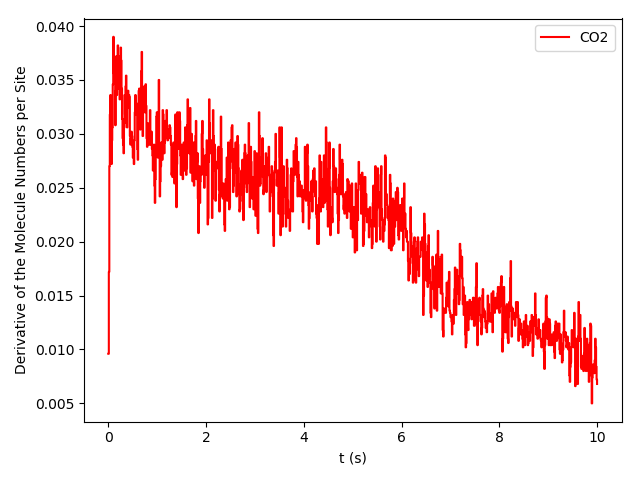
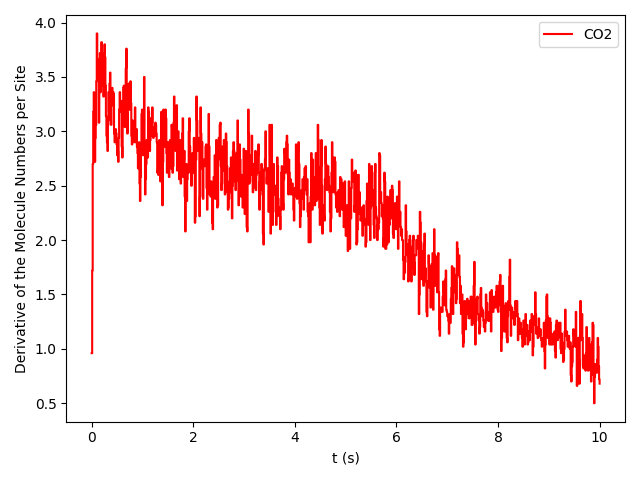
1) Now calculations using restart can be loaded using load_external 2) Bug fixed in derivatives of the provided quantities 3) Documentation updated -- SO203

diff --git a/core/ZacrosResults.py b/core/ZacrosResults.py
@@ -45,7 +45,12 @@ class ZacrosResults( scm.plams.Results ):
         """
         if( self.job.restart is None ):
             lines = self.grep_file(self._filenames['general'], pattern='ZACROS')
-            zversion = lines[0].split()[2]
+
+            if( len(lines) > 0 ):
+                zversion = lines[0].split()[2]
+            else:
+                lines = self.grep_file(self._filenames['restart'], pattern='Version')
+                zversion = float(lines[0].split()[1])/1e5
         else:
             lines = self.grep_file(self._filenames['restart'], pattern='Version')
             zversion = float(lines[0].split()[1])/1e5
@@ -418,16 +423,17 @@ class ZacrosResults( scm.plams.Results ):
             else:
                 ax.set_ylabel('Molecule Numbers per Site')
 
+        x = provided_quantities["Time"]
         for i,spn in enumerate(species_name):
             if( normalize_per_site ):
-                data = numpy.array(provided_quantities[spn])/self.number_of_lattice_sites()
+                y = numpy.array(provided_quantities[spn])/self.number_of_lattice_sites()
             else:
-                data = numpy.array(provided_quantities[spn])
+                y = numpy.array(provided_quantities[spn])
 
             if( derivative ):
-                data = numpy.gradient(data)
+                y = numpy.gradient(y, x)
 
-            ax.step( provided_quantities["Time"], data, where='post', color=COLORS[i], label=spn)
+            ax.step( x, y, where='post', color=COLORS[i], label=spn)
 
         ax.legend(loc='best')
 

diff --git a/examples/ZiffGulariBarshad-PhaseTransitions/viewResults.py b/examples/ZiffGulariBarshad-PhaseTransitions/viewResults.py
@@ -1,0 +1,13 @@
+import scm.pyzacros as pz
+
+# xCO=0.54
+job = pz.ZacrosJob.load_external( path="plams_workdir/plamsjob.034" )
+job.results.last_lattice_state().plot()
+job.results.plot_molecule_numbers( ["CO2"], normalize_per_site=True )
+job.results.plot_molecule_numbers( ["CO2"], normalize_per_site=True, derivative=True )
+
+# xCO=0.55
+job = pz.ZacrosJob.load_external( path="plams_workdir/plamsjob.035" )
+job.results.last_lattice_state().plot()
+job.results.plot_molecule_numbers( ["CO2"], normalize_per_site=True )
+job.results.plot_molecule_numbers( ["CO2"], normalize_per_site=True, derivative=True )

diff --git a/core/ZacrosJob.py b/core/ZacrosJob.py
@@ -917,7 +917,7 @@ class ZacrosJob( scm.plams.SingleJob ):
 
 
     @classmethod
-    def load_external(cls, path, settings=None, molecule=None, finalize=False):
+    def load_external(cls, path, settings=None, molecule=None, finalize=False, restart=None):
         """
         Load an external job from *path*.
 
@@ -956,6 +956,8 @@ class ZacrosJob( scm.plams.SingleJob ):
 
         if finalize:
             job._finalize()
+
+        job.restart = restart
 
         return job
 

diff --git a/doc/source/examples/ZiffGulariBarshad-PhaseTransitions.py b/doc/source/examples/ZiffGulariBarshad-PhaseTransitions.py
@@ -85,7 +85,7 @@ sett.max_time = 10.0
 #---------------------------------------------
 
 dx = 0.01
-x_CO = numpy.arange(0.2,0.8+dx,dx)
+x_CO = numpy.arange(0.2,0.8,dx)
 results = []
 
 # Loop over the conditions to run the jobs

diff --git a/examples/ZiffGulariBarshad-PhaseTransitions/ZiffGulariBarshad-PhaseTransitions.py b/examples/ZiffGulariBarshad-PhaseTransitions/ZiffGulariBarshad-PhaseTransitions.py
@@ -85,7 +85,7 @@ sett.max_time = 10.0
 #---------------------------------------------
 
 dx = 0.01
-x_CO = numpy.arange(0.2,0.8+dx,dx)
+x_CO = numpy.arange(0.2,0.8,dx)
 results = []
 
 # Loop over the conditions to run the jobs

diff --git a/doc/source/examples/zgb_pts.rst b/doc/source/examples/zgb_pts.rst
@@ -89,7 +89,7 @@ The second part corresponds to the calculations settings (see :ref:`code <code_s
   sett.species_numbers = ('time', 0.01)
   sett.max_time = 10.0
 
-The next block executes the zacros calculations  (see :ref:`code <code_run>`). Lines 1-2 define the grid of partial pressures of CO to study. In this case, from 0.2 up to 0.8. Line 4 defines the results list, initially empty. From lines 5 up to 14, we have the loop that submits one zacros calculation for each value of CO partial pressure. First, we establish the composition in the settings object by selecting the partial pressure of CO and O\ :sub:`2` (``sett.molar_fraction.CO`` and ``sett.molar_fraction.O2`` respectively. Notice that we assumed that the gas phase is composed only of CO and O\ :sub:`2`. Thus, x\ :sub:`CO`+x\ :sub:`O_2`=1). Lines 9 to 12 initialize the ZacrosJob, and line 14 collects the corresponding results into the ``results`` list. ``job.run()`` will return a ``ZacrosResults`` object. The full loop will execute all jobs in groups of ``maxjobs`` jobs.
+The next block executes the zacros calculations  (see :ref:`code <code_run>`). Lines 1-2 define the grid of partial pressures of CO to study. In this case, from 0.2 up to 0.8. Line 4 defines the results list, initially empty. From lines 5 up to 14, we have the loop that submits one zacros calculation for each value of CO partial pressure. First, we establish the composition in the settings object by selecting the partial pressure of CO and O\ :sub:`2` (``sett.molar_fraction.CO`` and ``sett.molar_fraction.O2`` respectively. Notice that we assumed that the gas phase is composed only of CO and O\ :sub:`2`. Thus, x\ :sub:`CO` +x\ :sub:`O_2` =1). Lines 9 to 12 initialize the ZacrosJob, and line 14 collects the corresponding results into the ``results`` list. ``job.run()`` will return a ``ZacrosResults`` object. The full loop will execute all jobs in groups of ``maxjobs`` jobs.
 
 .. _code_run:
 .. code-block:: python
@@ -292,7 +292,7 @@ pyZacros also offers some predefined plot functions that use matplotlib as well.
   :caption: **Code: Visualizing coverage results**
   :linenos:
 
-  # Lattice states for x_CO=0.54 and CO=0.55
+  # Lattice states for x_CO=0.54 and x_CO=0.55
   results[33].last_lattice_state().plot()
   results[34].last_lattice_state().plot()
 
@@ -321,7 +321,7 @@ pyZacros also offers the function ``plot_molecule_numbers()`` to visualize the m
   :caption: **Code: Visualizing Molecule Numbers and Its First Derivative**
   :linenos:
 
-  # Molecule numbers for x_CO=0.54 and CO=0.55
+  # Molecule numbers for x_CO=0.54 and x_CO=0.55
   results[33].plot_molecule_numbers( ["CO2"], normalize_per_site=True )
   results[34].plot_molecule_numbers( ["CO2"], normalize_per_site=True )
 
@@ -347,8 +347,28 @@ pyZacros also offers the function ``plot_molecule_numbers()`` to visualize the m
 .. csv-table:: **Molecule Numbers and Its First Derivative**
    :header: |molnum1| |br| |dmolnum1|, |molnum2| |br| |dmolnum2|
 
-   "A view of the catalyst surface at |br| partial pressure of CO = 0.54", "A view of the catalyst surface at |br| partial pressure of CO = 0.55"
+   "CO\ :sub:`2` production for CO = 0.54. Steady-state", "CO\ :sub:`2` for CO = 0.55. Non-steady-state"
 
-From the figures above, it is clear that we have reached a steady-state for x\ :sub:`CO` =0.54 we have reached a steady state. Notice that the first derivative is approximately constant at 0.027 mol/s/site within a tolerance of 0.05. mol/s/site. Contrary, this is not the case of x\ :sub:`CO` =0.55, where the first derivative is continuously going down.
+From the figures above, it is clear that we have reached a steady-state for x\ :sub:`CO` =0.54. Notice that the first derivative is approximately constant at 2.7 mol/s/site within a tolerance of 5 mol/s/site. Contrary, this is not the case of x\ :sub:`CO` =0.55, where the first derivative continuously decreases.
 
 In the next example, we will modify the script presented here to reach a steady-state configuration for every composition.
+
+As a final note, you can use the following script to visualize the results without running the full calculation:
+
+.. code-block:: python
+  :caption: **Code: Visualizing the Results**
+  :linenos:
+
+  import scm.pyzacros as pz
+
+  # xCO=0.54
+  job = pz.ZacrosJob.load_external( path="plams_workdir/plamsjob.034" )
+  job.results.last_lattice_state().plot()
+  job.results.plot_molecule_numbers( ["CO2"], normalize_per_site=True )
+  job.results.plot_molecule_numbers( ["CO2"], normalize_per_site=True, derivative=True )
+
+  # xCO=0.55
+  job = pz.ZacrosJob.load_external( path="plams_workdir/plamsjob.035" )
+  job.results.last_lattice_state().plot()
+  job.results.plot_molecule_numbers( ["CO2"], normalize_per_site=True )
+  job.results.plot_molecule_numbers( ["CO2"], normalize_per_site=True, derivative=True )

diff --git a/doc/source/examples/examples.rst b/doc/source/examples/examples.rst
@@ -52,7 +52,7 @@ Advanced examples
    :scale: 32 %
    :target: zgb_pts.html
 
-.. |example5| image:: ../../images/example_ZGB-PhaseTransitions.png
+.. |example5| image:: ../../images/example_ZGB-PhaseTransitions-SS.png
    :scale: 32 %
    :target: zgb_ss.html
 

diff --git a/doc/source/examples/zgb_ss_pc.rst b/doc/source/examples/zgb_ss_pc.rst
@@ -1,2 +1,2 @@
-Phase Transitions in the ZGB model & Steady-State Operation.
+Phase Transitions in the ZGB model & Parameter Continuation.
 ------------------------------------------------------------
